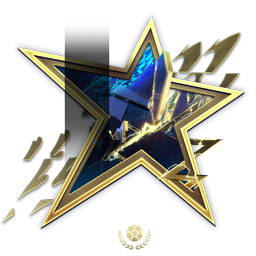
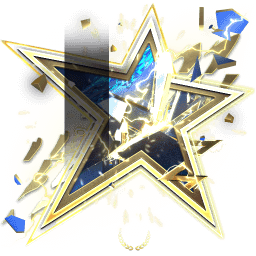
Upadated FCMSquad

diff --git a/fcmsquad/resources/faceData2.js b/fcmsquad/resources/faceData2.js
@@ -6,7 +6,8 @@ const faceData2 = [
             "./resources/players/players_23/p20801_FD24_LIVE_AS.png",
             "./resources/players/players_23/p20801_FB23.png",
             "./resources/players/players_23/p20801_TOTS23_SAUDI.png",
-            "./resources/players/players_23/p20801_RS23_STAR.png"
+            "./resources/players/players_23/p20801_RS23_STAR.png",
+            "./resources/players/players_23/p20801_TOTS22_UT.png"
         ]
     },
     {
@@ -924,6 +925,7 @@ const faceData2 = [
             "./resources/players/players_23/p203376_TOTY23.png",
             "./resources/players/players_23/p203376_WC2.png",
             "./resources/players/players_23/p203376_WC.png",
+            "./resources/players/players_23/p203376_TOTS22_UT.png",
             "./resources/players/players_22/p203376_TOTS.png",
             "./resources/players/players_22/p203376_TOTS2.png",
             "./resources/players/players_22/p203376_HEART.png",
@@ -961,6 +963,7 @@ const faceData2 = [
             "./resources/players/players_23/p200104_WC2.png",
             "./resources/players/players_22/p200104_NEON.png",
             "./resources/players/players_23/p200104_TOTW23.png",
+            "./resources/players/players_23/p200104_TOTS22_UT.png",
             "./resources/players/players_22/p200104_TOTS.png",
             "./resources/players/players_22/p200104_TOTS2.png",
             "./resources/players/players_22/p200104_TOTY.png",
@@ -1186,6 +1189,7 @@ const faceData2 = [
             "./resources/players/players_23/p252371_TOTY23.png",
             "./resources/players/players_23/p252371_WC_Best.png",
             "./resources/players/players_23/p252371_WC.png",
+            "./resources/players/players_23/p252371_TOTS22_UT.png",
             "./resources/players/players_22/p252371_TOTS.png",
             "./resources/players/players_22/p252371_TOTY.png",
             "./resources/players/players_23/p252371.png"
@@ -1350,6 +1354,7 @@ const faceData2 = [
             "./resources/players/players_23/p239818_TOTY23.png",
             "./resources/players/players_23/p239818_WC.png",
             "./resources/players/players_23/p239818_WC22_BASE.png",
+            "./resources/players/players_23/p239818_TOTS22_UT.png",
             "./resources/players/players_22/p239818_TOTY2.png",
             "./resources/players/players_22/p239818_TOTS.png"
         ]
@@ -1495,6 +1500,7 @@ const faceData2 = [
         "images": [
             "./resources/players/players_23/p231281_RECORD_BREAKER.png",
             "./resources/players/players_23/p231281_UCL23.png",
+            "./resources/players/players_23/p231281_TOTS22_UT.png",
             "./resources/players/players_22/p231281_TOTS.png",
             "./resources/players/players_22/p231281_TOTY.png",
             "./resources/players/players_23/p231281_WC22_BASE.png",
@@ -1687,6 +1693,7 @@ const faceData2 = [
             "./resources/players/players_23/p165153_UCL23.png",
             "./resources/players/players_23/p165153_TOTY23.png",
             "./resources/players/players_23/p165153_LNY.png",
+            "./resources/players/players_23/p165153_TOTS22_UT.png",
             "./resources/players/players_22/p165153_TOTS2.png",
             "./resources/players/players_22/p165153_TOTS.png",
             "./resources/players/players_23/p165153_TOTW23.png"
@@ -1742,6 +1749,7 @@ const faceData2 = [
             "./resources/players/players_23/p177003_TOTT.png",
             "./resources/players/players_23/p177003_UCL23.png",
             "./resources/players/players_23/p177003_WC.png",
+            "./resources/players/players_23/p177003_TOTS22_UT.png",
             "./resources/players/players_22/p177003_TOTS.png",
             "./resources/players/players_22/p177003_TOTY.png",
             "./resources/players/players_23/p177003.png",
@@ -1937,6 +1945,7 @@ const faceData2 = [
             "./resources/players/players_23/p232656_UCL23.png",
             "./resources/players/players_23/p232656_TOTY23.png",
             "./resources/players/players_23/p232656_WC.png",
+            "./resources/players/players_23/p232656_TOTS22_UT.png",
             "./resources/players/players_22/p232656_TOTS.png",
             "./resources/players/players_22/p232656_TOTY.png"
         ]
@@ -2423,6 +2432,7 @@ const faceData2 = [
             "./resources/players/players_23/p209331_UCL23.png",
             "./resources/players/players_23/p209331_TOTY23.png",
             "./resources/players/players_23/p209331_TOTW23.png",
+            "./resources/players/players_23/p209331_TOTS22_UT.png",
             "./resources/players/players_22/p209331_TOTS.png",
             "./resources/players/players_22/p209331_TOTY.png",
             "./resources/players/players_23/p209331.png"
@@ -2592,7 +2602,9 @@ const faceData2 = [
     {
         "idx": 205,
         "pid": "238794",
-        "images": []
+        "images": [
+            "./resources/players/players_23/p238794_TOTS22_UT.png"
+        ]
     },
     {
         "idx": 283,
@@ -2629,6 +2641,7 @@ const faceData2 = [
             "./resources/players/players_23/p207865_UCL23.png",
             "./resources/players/players_23/p207865_WC2.png",
             "./resources/players/players_23/p207865_WC.png",
+            "./resources/players/players_23/p207865_TOTS22_UT.png",
             "./resources/players/players_23/p207865.png",
             "./resources/players/players_22/p207865_TOTS2.png",
             "./resources/players/players_22/p207865_TOTS.png"
@@ -2793,6 +2806,7 @@ const faceData2 = [
             "./resources/players/players_23/p210514_UCL23.png",
             "./resources/players/players_22/p210514_WC.png",
             "./resources/players/players_23/p210514_WC22_BASE.png",
+            "./resources/players/players_23/p210514_TOTS22_UT.png",
             "./resources/players/players_23/p210514.png"
         ]
     },
@@ -7228,6 +7242,7 @@ const faceData2 = [
             "./resources/players/players_23/p188545_TOTY23.png",
             "./resources/players/players_23/p188545_WC.png",
             "./resources/players/players_22/p188545_KOP.png",
+            "./resources/players/players_23/p188545_TOTS22_UT.png",
             "./resources/players/players_22/p188545_TOTS.png",
             "./resources/players/players_23/p188545_TOTW23.png",
             "./resources/players/players_22/p188545_TOTY.png"
@@ -8514,6 +8529,7 @@ const faceData2 = [
             "./resources/players/players_23/p212622_UCL23.png",
             "./resources/players/players_23/p212622_WC.png",
             "./resources/players/players_23/p212622_TOTY23.png",
+            "./resources/players/players_23/p212622_TOTS22_UT.png",
             "./resources/players/players_22/p212622_TOTS.png",
             "./resources/players/players_22/p212622_TOTY.png",
             "./resources/players/players_23/p212622_WC22_BASE.png",

diff --git a/fcmsquad/resources/mainData.js b/fcmsquad/resources/mainData.js
@@ -2293,7 +2293,7 @@ const cardData = [
     {idx: 19, code: "UCL22", name: "UCL22 파이널", otherNames: ["챔스22", "22챔스", "챔스"], image: "./resources/cards/UCL22_Final.png", type: "fm", color: "white"},
     {idx: 20, code: "UCL22", name: "UCL22 Best", otherNames: ["22챔베", "챔베22", "챔베", "챔스", "별", "별카드", "챔스22"], image: "./resources/cards/UCL22_Best.png", type: "fm", color: "white"},
     {idx: 21, code: "TOTS22_", name: "TOTS22", otherNames: ["토츠22", "22토츠", "토츠"], image: "./resources/cards/TOTS22.png", type: "fm", color: "white"},
-    {idx: 22, code: "TOTS22_UT", name: "UTOTS22", otherNames: ["얼토츠22", "22얼토츠", "얼토츠", "토츠", "별", "별카드"], image: "./resources/cards/UTOTS22_tr.png", type: "fm", color: "#FFFFAA"},
+    {idx: 22, code: "TOTS22_UT", name: "UTOTS22", otherNames: ["얼토츠22", "22얼토츠", "얼토츠", "토츠", "별", "별카드"], image: "./resources/cards/TOTS22_UT.png", type: "fm", color: "#FFFFAA"},
     {idx: 23, code: "TOTY22", name: "TOTY22 Nominee", otherNames: ["22토티", "토티22", "노미니", "토티"], image: "./resources/cards/TOTY22_Nominee.png", type: "fm", color: "white"},
     {idx: 24, code: "TOTY22", name: "TOTY22 HM", otherNames: ["22파토", "파토22", "HM", "토티", "아너블멘션"], image: "./resources/cards/TOTY22_HM.png", type: "fm", color: "white"},
     {idx: 25, code: "TOTY22", name: "TOTY22 NYI", otherNames: ["22토티", "토티22", "토티"], image: "./resources/cards/NYI_Icon.png", type: "fm", color: "white"},
